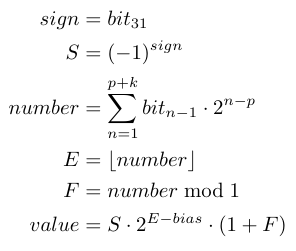
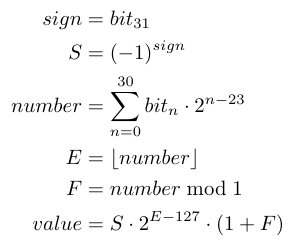
Update and fix formula

diff --git a/doc/eq_float_as_fp.tex b/doc/eq_float_as_fp.tex
@@ -2,9 +2,9 @@
 \begin{aligned}
     sign &= bit_{31} \\
     S &= (-1)^{sign} \\
-    number &= \sum_{n=1}^{p+k}{bit_{n-1} \cdot 2^{n-p}} \\
+    number &= \sum_{n=0}^{30}{bit_n \cdot 2^{n-23}} \\
     E &= \floor{number} \\
     F &= number \bmod 1 \\
-    value &= S \cdot 2^{E-bias} \cdot (1 + F) \\
+    value &= S \cdot 2^{E-127} \cdot (1 + F) \\
 \end{aligned}
 \end{equation*}

diff --git a/README.md b/README.md
@@ -70,7 +70,7 @@ This module implements all of them plus something non-standard.
 
 ![IEEE 754 bits layouts](doc/img/tb_pk_bits.png "IEEE 754 bits layouts")
 
-Where bits are laid out from left to right `sign - exponent - fraction`.
+Bits are laid out from left to right as `sign - exponent - fraction`.
 
 For example the `BFloat16` is stored as:
 
@@ -98,8 +98,16 @@ Hence, the float32 formula becomes:
 [eq_float32_value]: doc/img/eq_float32_value.png "float32 formula"
 ![Formula for float32][eq_float32_value]
 
+An another way to think about this formula is to consider the stored
+number as a fixed point binary number with sign bit.
+
+In this case, the integer part would be the exponent and the fractional
+part (plus 1) would be the significand. I.e.
+
+![Float as fixed point binary](doc/img/eq_float_as_fp.png "Float as fixed point binary")
+
 The actual implementation class is `Float` and it couldn't be instantiated
 directly.
 
-It must be subclassed providing `p`, `k`, and `bias`
-values as class properties (see `floatedu/Float.py`).
+It must be subclassed providing `p`, `k`, and `bias` values as class
+properties (see `floatedu/Float.py`).
